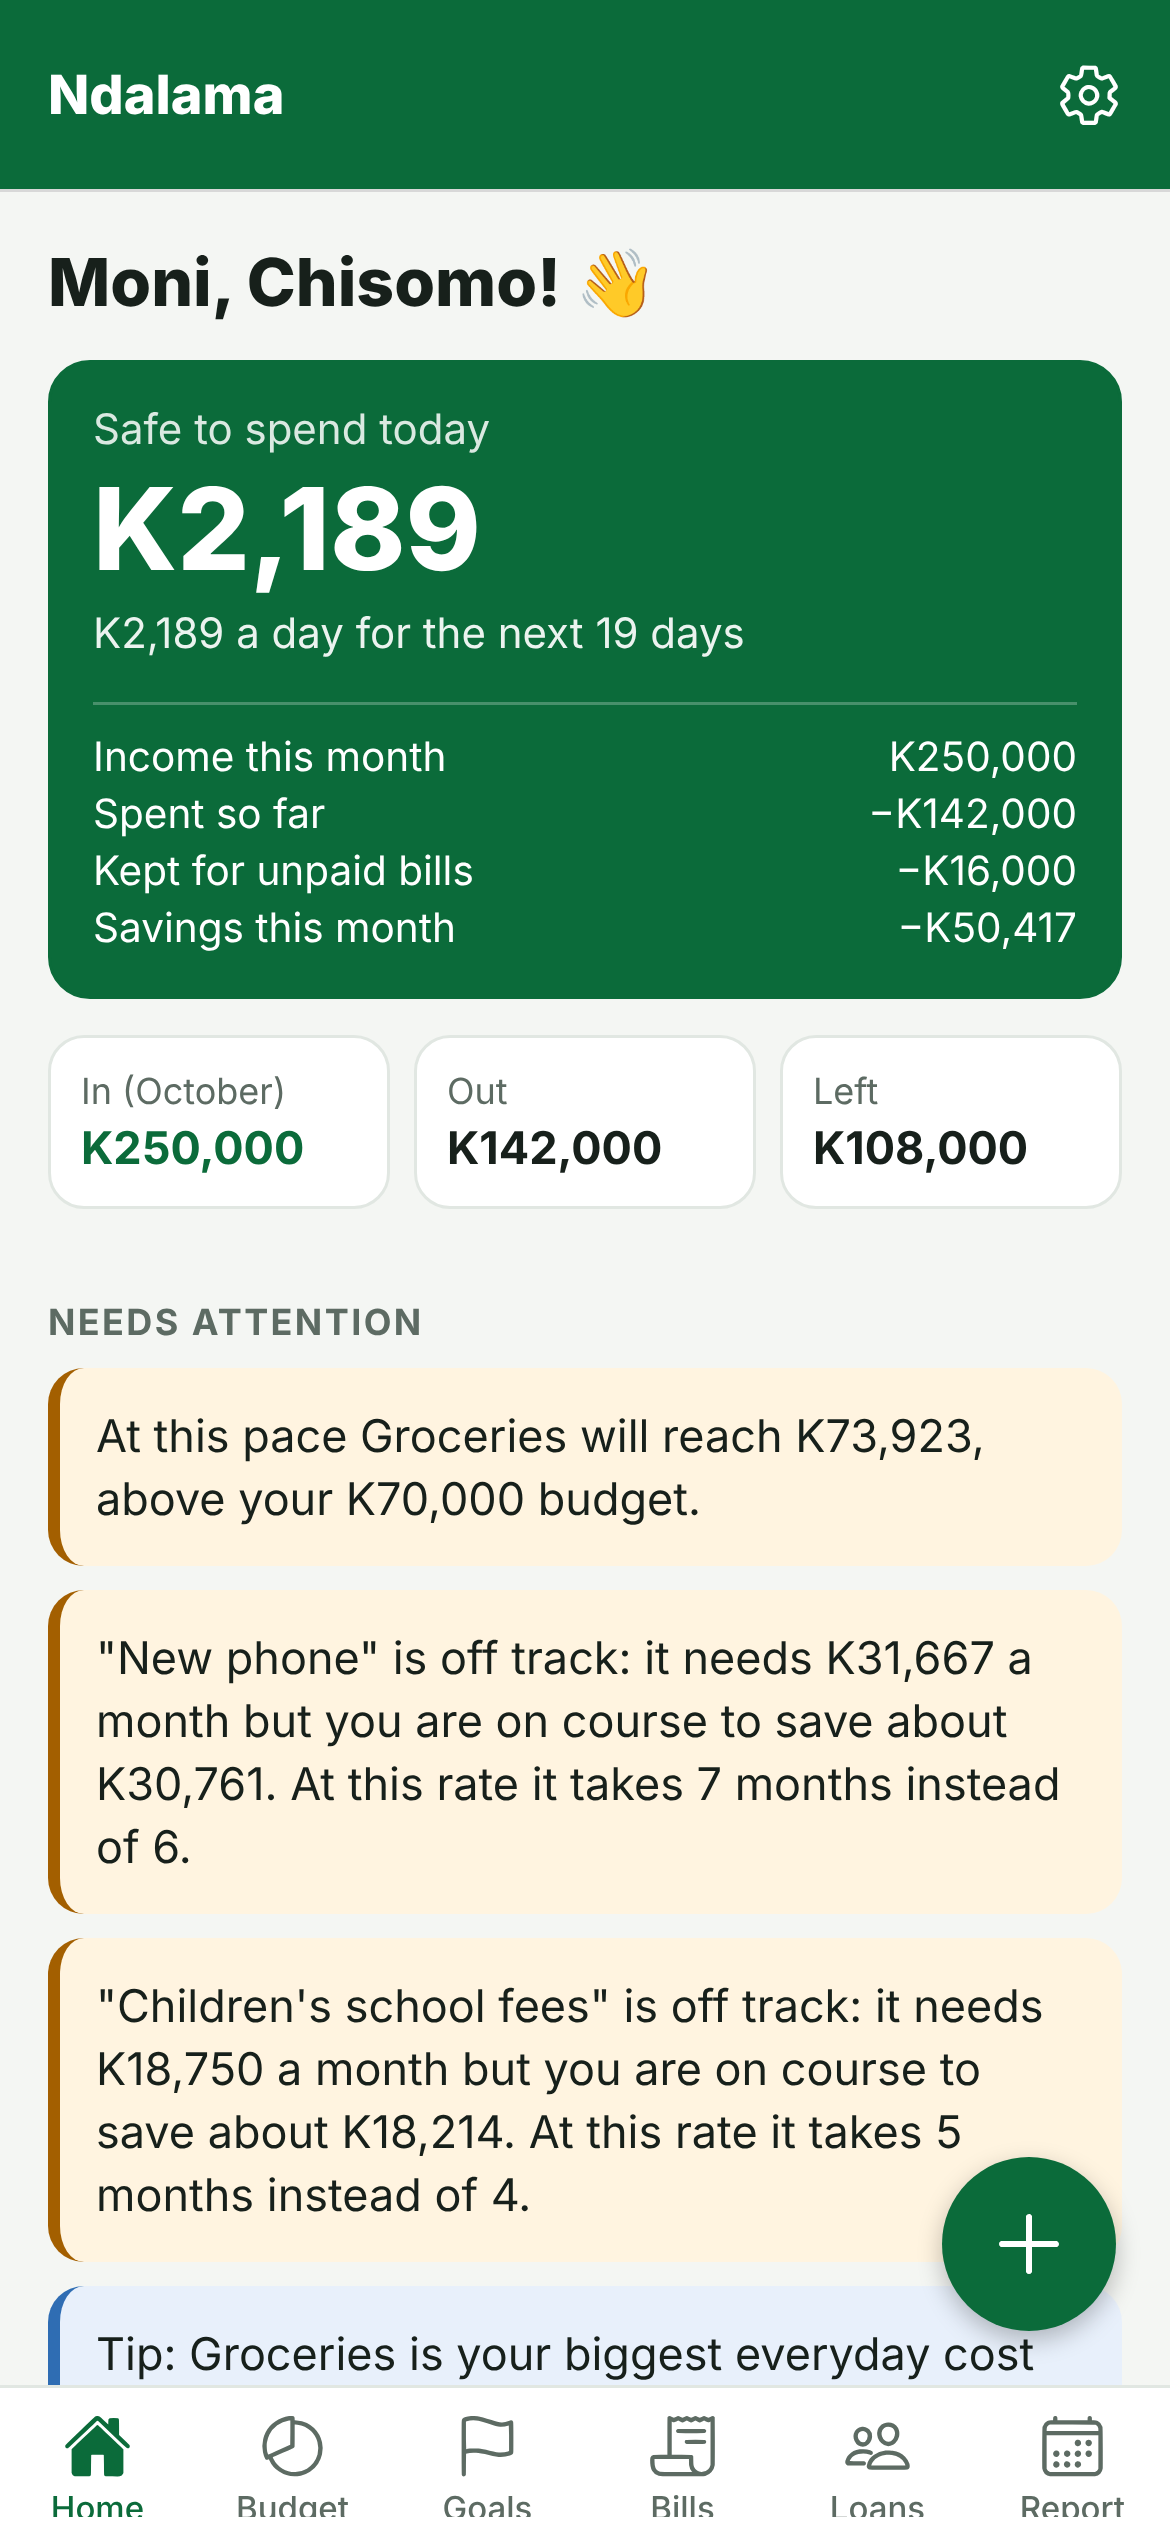
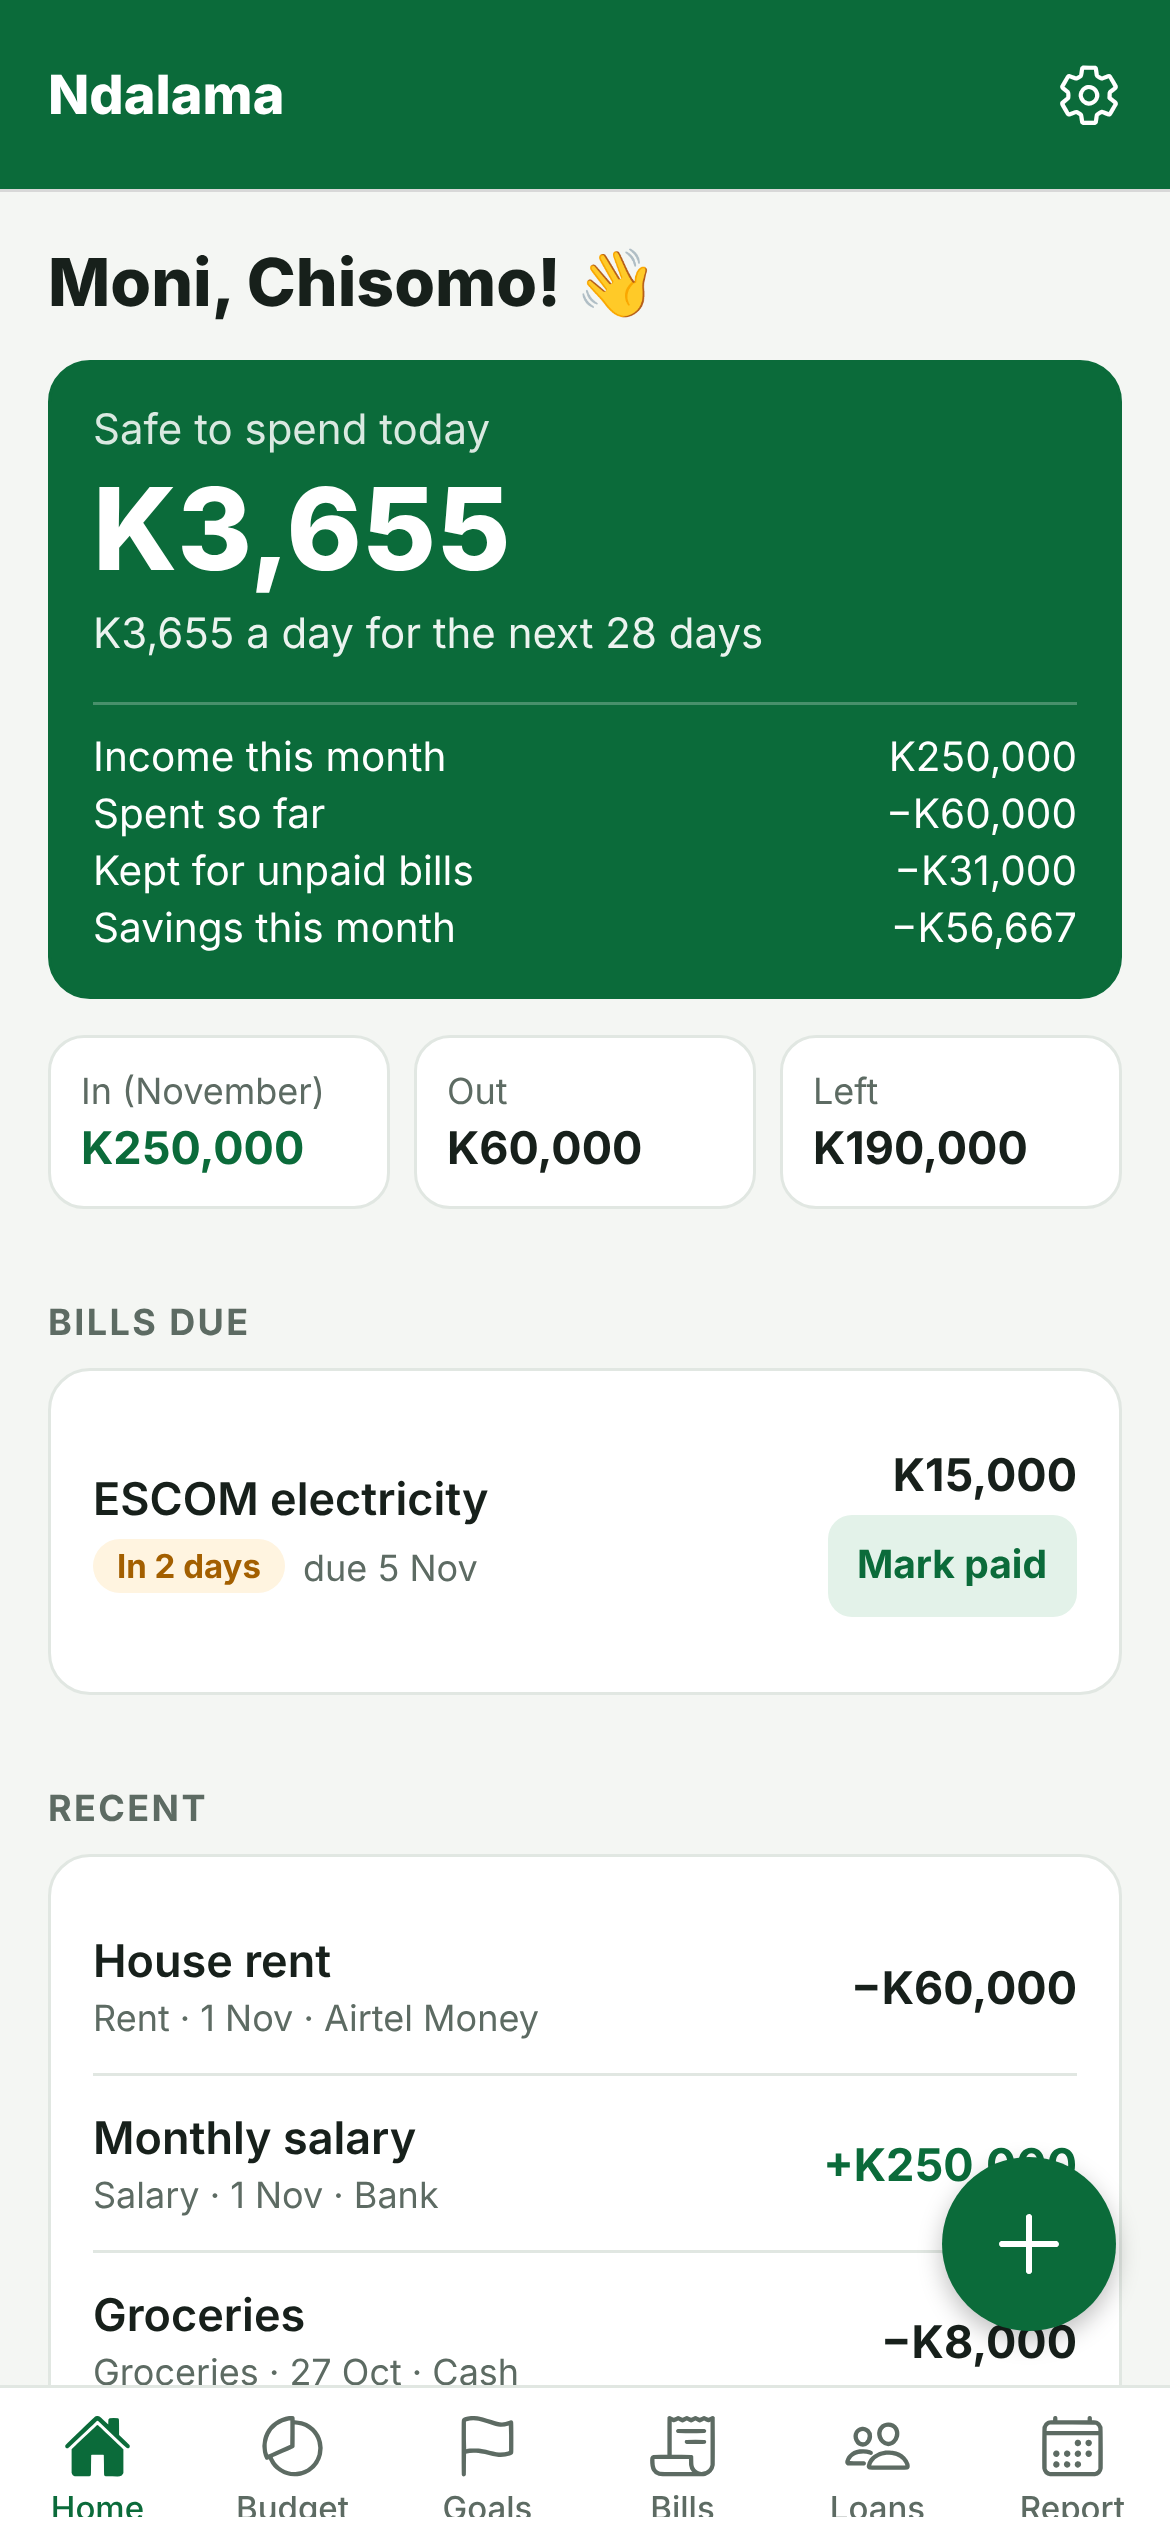
Twizzy: videos always show today's app
- sample-data.mjs: months and dates follow the given day (default today);
  nothing bought yet today, and only big monthly payments in the first
  week, so the screens look natural on any day.
- capture.cjs: month name from the date, hides the web build's Expo Go
  note, removes cards not shown today instead of keeping stale ones.
- fresh_screens.sh: builds the app, captures every screen dated today,
  writes numbers.txt; the agent runs it at the start of every run.
- Screens refreshed for 3 November 2026.

Claude-Session: https://claude.ai/code/session_01G6W2XbPEsjTecZqqyKD6wE

diff --git a/marketing/TWIZZY.md b/marketing/TWIZZY.md
@@ -126,14 +126,17 @@ Then rewrite the scenes for the new concept. Keep the helpers (`inn`, `out`, `dr
 
 **TikTok and Reels need vertical video.** Plan 14–24 scenes for 60–90 s. Scene types: `title`, `split`, `phone`, `showcase`, `cards`, `counter`, `list`, `steps`, `prompt`, `voice`, `end`. The look is always Ndalama green (§4.1). Set `window.VIDEO_SIZE = {width: 1080, height: 1920}` at the top of the page script and lay the scenes out for portrait. Make a 16:9 version too when the post also goes to X or Facebook.
 
-### 4.3 App screens with honest numbers
+### 4.3 App screens: today's app, honest numbers
+
+Videos always show the app **as it is today**: the current month, today's date, the latest design. The workflow runs this at the start of every run (run it yourself if you change the sample month):
 ```bash
-bash marketing/studio/setup.sh                                     # once per machine
-npx expo export --platform web --output-dir /tmp/web && (cd /tmp/web && python3 -m http.server 8090 &)
-cd marketing/studio && node sample-data.mjs 2026-10-13 /tmp/data.json   # prints what the app calculates
-node capture.cjs ../assets/app /tmp/data.json
+bash marketing/studio/fresh_screens.sh            # today in Malawi; or give a date: … 2026-11-20
 ```
-Every number shown must come from the app's own calculations on that sample data. Adjust `sample-data.mjs` to tell the story you need (a calm month, a goal slightly behind) and rerun until the printed numbers look right. Never type made-up numbers into a scene.
+It builds the current app, loads the sample month (`studio/sample-data.mjs`, a K250,000 salary, with all dates relative to the day) and captures every screen and card into `marketing/assets/app`. It writes the numbers the app shows into `marketing/assets/app/numbers.txt`. A card that isn't on today's screens (e.g. no goal warning early in the month) is removed rather than left stale.
+
+- **Every number in a video comes from `numbers.txt`** or from running the app's own calculations (`src/logic.js`) on the same sample month. Never type a number from an older video or invent one.
+- To tell a different story (a goal slipping, a bill due), adjust `sample-data.mjs` and run `fresh_screens.sh` again; dates must stay relative to today.
+- Never show a screen from another month in a new video.
 
 ### 4.4 Sound
 - **Voiceover** (explainer style): write `script.json` (one line per scene), then
